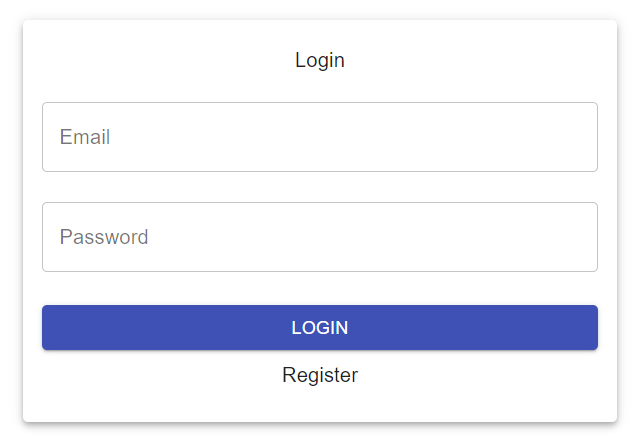
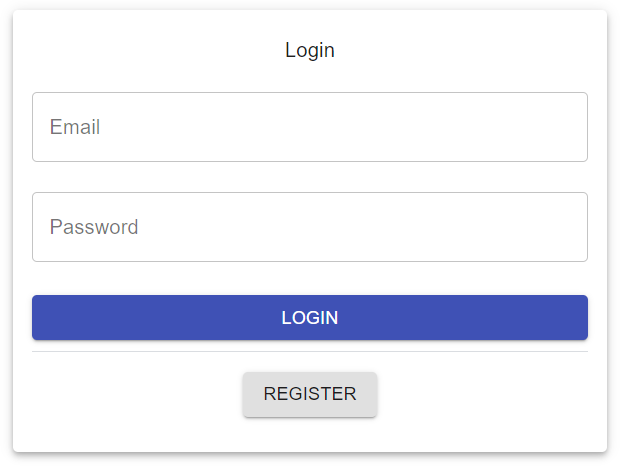
update button

Changed region(s): [[0.0, 0.0582, 0.9775, 0.9888], [0.4582, 0.0872, 0.5498, 0.1745]]

diff --git a/src/RegisterFormik.js b/src/RegisterFormik.js
@@ -4,7 +4,13 @@ import * as Yup from "yup";
 import React from "react";
 
 import { location } from "./location.js";
-import { StyledPaper, StyledPhoneInput, StyledTypography } from "./Styled";
+import {
+  StyledPaper,
+  StyledPhoneInput,
+  StyledTypography,
+  StyledPageBreak,
+  StyledGird,
+} from "./Styled";
 
 import {
   Button,
@@ -67,10 +73,10 @@ function RegisterFormik() {
       >
         {({ values, touched, errors, setFieldValue, setTouched }) => (
           <Form>
-            <Grid container justify="center" alignContent="center">
+            <StyledGird container>
               <Grid item xs={6} md={4}>
                 <StyledPaper elevation={4}>
-                  <StyledTypography gutterBottom>Signup</StyledTypography>
+                  <StyledTypography gutterBottom>Register</StyledTypography>
 
                   <Grid container direction="row" spacing={5}>
                     {/* firstName */}
@@ -132,7 +138,7 @@ function RegisterFormik() {
                         <TextField
                           id="date"
                           variant="outlined"
-                          label="BirthDay"
+                          label="Birthday"
                           type="date"
                           InputLabelProps={{
                             shrink: true,
@@ -281,7 +287,7 @@ function RegisterFormik() {
                   <Field name="receiveLetter" type="checkbox">
                     {({ field }) => (
                       <FormControlLabel
-                        control={<Checkbox {...field} />}
+                        control={<Checkbox color="primary" {...field} />}
                         label="I accept the Terms of Use & Privacy Policy"
                       />
                     )}
@@ -289,17 +295,29 @@ function RegisterFormik() {
 
                   {/* button */}
                   <FormControl fullWidth margin="normal">
-                    <Button variant="contained" color="primary" type="submit">
+                    <Button variant="contained" type="submit">
                       Register
                     </Button>
                   </FormControl>
 
-                  <StyledTypography gutterBottom>
-                    <a href="/">Login</a>
-                  </StyledTypography>
+                  <StyledPageBreak
+                    style={{ borderBottom: "1px solid #dadde1" }}
+                  />
+
+                  <FormControl margin="normal">
+                    <Button
+                      variant="contained"
+                      color="primary"
+                      onClick={() => {
+                        history.push("/");
+                      }}
+                    >
+                      Login
+                    </Button>
+                  </FormControl>
                 </StyledPaper>
               </Grid>
-            </Grid>
+            </StyledGird>
           </Form>
         )}
       </Formik>

diff --git a/src/LoginFormik.js b/src/LoginFormik.js
@@ -3,7 +3,13 @@ import { useHistory } from "react-router-dom";
 import * as Yup from "yup";
 import React from "react";
 
-import { StyledPaper, StyledFormHelperText, StyledTypography } from "./Styled";
+import {
+  StyledGird,
+  StyledPaper,
+  StyledFormHelperText,
+  StyledTypography,
+  StyledPageBreak,
+} from "./Styled";
 
 import {
   Button,
@@ -45,7 +51,7 @@ const LoginFomik = () => {
           <Form>
             {console.log(values.err)}
 
-            <Grid container justify="center" alignContent="center">
+            <StyledGird container>
               <StyledPaper elevation={4}>
                 <StyledTypography gutterBottom>Login</StyledTypography>
 
@@ -101,11 +107,23 @@ const LoginFomik = () => {
                     Login
                   </Button>
                 </FormControl>
-                <StyledTypography gutterBottom>
-                  <a href="/register">Register</a>
-                </StyledTypography>
+
+                <StyledFormHelperText
+                  style={{ borderBottom: "1px solid #dadde1" }}
+                />
+
+                <FormControl margin="normal">
+                  <Button
+                    variant="contained"
+                    onClick={() => {
+                      history.push("/register");
+                    }}
+                  >
+                    Register
+                  </Button>
+                </FormControl>
               </StyledPaper>
-            </Grid>
+            </StyledGird>
           </Form>
         )}
       </Formik>

diff --git a/src/Styled.js b/src/Styled.js
@@ -1,11 +1,16 @@
 import styled from "styled-components";
-import { FormHelperText, Paper, Typography } from "@material-ui/core";
+import { FormHelperText, Paper, Typography, Grid } from "@material-ui/core";
 import PhoneInput from "react-phone-number-input";
 import "react-phone-number-input/style.css";
-
 export const StyledPaper = styled(Paper)`
   padding: 20px 15px;
   margin-top: 30px;
+`;
+
+export const StyledGird = styled(Grid)`
+  justify-content: center;
+  align-content: center;
+  text-align: center;
 `;
 
 export const StyledTypography = styled(Typography)`
@@ -19,7 +24,7 @@ export const StyledTypography = styled(Typography)`
   }
 `;
 
-export const StyledFormHelperText = styled(FormHelperText)`
+export const StyledFormHelperText = styled.p`
   color: red;
   text-align: center;
 `;
@@ -32,4 +37,8 @@ export const StyledPhoneInput = styled(PhoneInput)`
   & input {
     border: none;
   }
+`;
+
+export const StyledPageBreak = styled.div`
+  border-bottom: 1px solid #dadde1;
 `;
